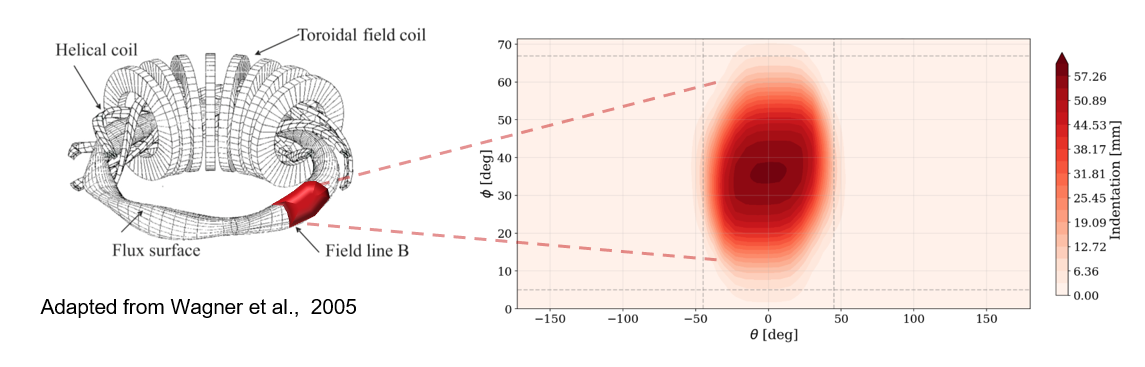
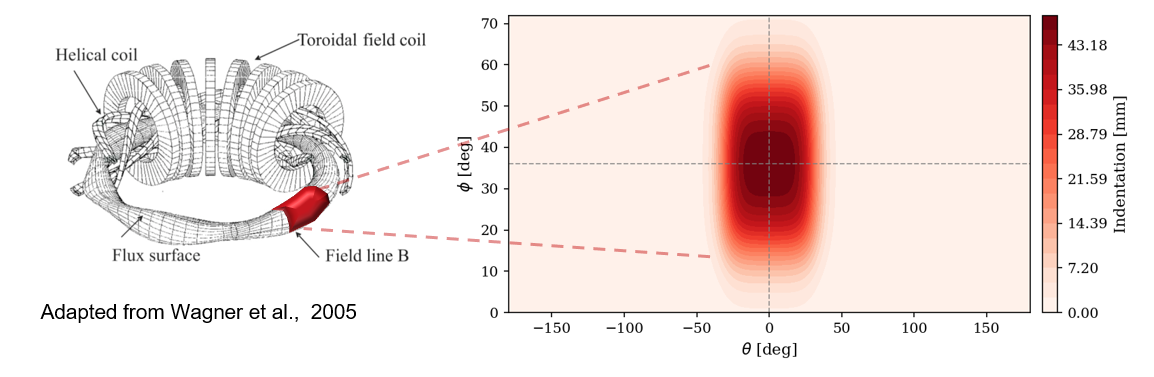
Updated documentation and fixed plot

diff --git a/docs/howto/stellarator_with_divertor.md b/docs/howto/stellarator_with_divertor.md
@@ -7,7 +7,7 @@ layout: default
 render_with_liquid: false
 ---
 
-# Running Stellarator with Divertor Region
+# Running the stellarator model with a divertor region
 
 Unlike tokamak models, JOREK does not have a built-in equilibrium solver for stellarator but uses an ideal MHD equilibrium solver from GVEC, assuming nested flux surfaces. Historically, this meant that the simulation domain has been limited to the Last Closed Flux Surface (LCFS). To go beyond the LCFS, one typically either needs:
 
@@ -29,7 +29,7 @@ Minimal context for this page:
 
 For W7-X divertor workflows where coil-field topology at the boundary is required, this page assumes `USE_EXT_FIELD=1` and a `gvec2jorek.dat` that already contains `B_vac_*` blocks.
 
-To realistically capture divertor physics, **sheath boundary conditions** (SBC) are necessary to capture the dynamics close to the first wall when open magnetic field intersect the boundary. The well-established main physics formulae, already implemented in the JOREK tokamak model and in other divertor physics codes, state that for flux surfaces intersecting boundaries with angle $\alpha$, we have:
+To realistically capture divertor physics, **sheath boundary conditions** (SBC) are necessary to capture the dynamics close to the first wall when open magnetic field intersect the boundary. The well-established main physics formulae, already implemented in the JOREK tokamak model and in other divertor physics codes, state that for flux surfaces intersecting boundaries with angle $\alpha$, we have (where $\alpha_0$ can bet set to e.g. 5 deg):
 
 1. **The Bohm criterion**: $$v_{\parallel} \geq \pm c_s f(\alpha), \quad \alpha = \arcsin\left(\frac{|\hat{n} \cdot \mathbf{B}|}{\Vert\mathbf{B}\Vert}\right), \quad f(\alpha)=\tanh\left(\frac{\alpha}{\alpha_0}\right)$$
 
@@ -48,7 +48,7 @@ More physics details on SBC and their implementation can be found in P.C Stangeb
 
 The first minimum viable stellarator divertor grid example features an artificial divertor indentation in the stellarator Wendelstein 7-A (sketch for illustrative purposes only):
 
-<img src="assets/stellarator_with_divertor/W7-A_divertor_illustrated.png" alt="Alt text" width="700">
+<img src="assets/stellarator_with_divertor/W7-A_divertor_illustrated.png" alt="Alt text" width="800">
 
 The indentation used is a smooth inward radial displacement of the boundary shell, with depth parameter $d$ (here $d=50$ mm, the more extreme test case). For this artificial W7-A test divertor, the indentation patch can be described analytically:
 
@@ -66,15 +66,17 @@ def tanh_smooth(x, center, width, smooth_width):
     return left * right
 ```
 
-and $\kappa$ is the ellipticity factor (in this example, $\kappa=1.5$). In practice, boundary nodes are moved inward by $\Delta r$ and interior shells are scaled proportionally from axis (0) to boundary (1). An example usage to plot this artificial indentation is found in `assets/stellarator_with_divertor/plot_w7a_example_indentation_map.py`
+and $\kappa$ is the ellipticity factor (in this example, $\kappa=1.5$). In practice, boundary nodes are moved inward by $\Delta r$ and interior shells are scaled proportionally from axis (0) to boundary (1). An example usage to plot this artificial indentation is found in [W7-A example indentation map](assets/stellarator_with_divertor/plot_w7a_example_indentation_map.py).
 
 Bezier-Hermite handling in this W7-A step is intentionally simple: geometry is modified in real space and first/mixed derivatives (`_s`, `_t`, `_st`) are recomputed with `scipy.interpolate.PchipInterpolator` in radial and poloidal directions (including periodic closure in poloidal angle). This avoids stale handles after boundary displacement.
 
-The main ingredients can be found in `assets/stellarator_with_divertor/modify_w7a_gvec2jorek_to_divertor.py`. Inputs are the original `gvec2jorek.dat` geometry/Fourier fields and a geometric indentation prescription. Output is a modified `gvec2jorek_divertor_<depth>mm.dat`, then model180/model183 follow the standard chain from [Run Stellarator Simulations](stellarator_setup.md).
+*TO DO: when stellarator_setup.md done, link to this script.*
+
+The main ingredients can be found in the [modify_w7a_gvec2jorek_to_divertor script](assets/stellarator_with_divertor/modify_w7a_gvec2jorek_to_divertor.py). Inputs are the original `gvec2jorek.dat` geometry/Fourier fields and a geometric indentation prescription. Output is a modified `gvec2jorek_divertor_<depth>mm.dat`, then model180/model183 follow the standard chain from the [stellarator set-up](stellarator_setup.md).
 
 This step is a first direct geometry-indentation workflow for W7-A, to demonstrate grid modification principles before any bloating or harmonic mapping is needed.
 
-<img src="assets//stellarator_with_divertor/boundary_toroidal_5panel_divertor_50.0mm.png" alt="Alt text" width="700">
+<img src="assets//stellarator_with_divertor/boundary_toroidal_5panel_divertor_50.0mm.png" alt="Alt text" width="800">
 
 ## W7-X divertor grids
 
@@ -82,33 +84,30 @@ This step is a first direct geometry-indentation workflow for W7-A, to demonstra
 
 #### Incorporating the vacuum field in the gvec2jorek.dat file 
 
-In step20, vacuum field is added by sampling the W7-X mgrid coil field on the JOREK flux grid, transforming to toroidal Fourier modes, and appending `B_vac_*` blocks to `gvec2jorek.dat`. The reference script is `runs/019_w7x_half_beta_island_divertor/step20_w7x_bean_scaling/mgrid2bvac_step20.py`.
+*This step requires a) a functional gvec2jorek.dat equilibrium file and b) an mgrid file (containing the vacuum fields) from W7-X. If you do not have these files, reach out to the W7-X team.*
 
-Minimal example from that script:
+*TO DO: link to 1) mgrid_w7x.nc (high_res), 2) gvec2jorek.dat file and 3) W7-X divertor files in Kisslinger format if/when they become publicly available.*
 
-```python
-GVEC2JOREK_IN = Path('.../gvec2jorek_harmonic_12.dat')
-MGRID_FILE = Path('.../mgrid_w7x_nv36_hires.nc')
-EXTCUR = [13470.0, 13470.0, 13470.0, 13470.0, 13470.0, 0.0, 0.0]
+The vacuum field is added by sampling the W7-X mgrid coil field on the JOREK flux grid, transforming to toroidal Fourier modes, and appending `B_vac_*` blocks to `gvec2jorek.dat`. The reference script is [w7x_mgrid2bvac](assets/stellarator_with_divertor/w7x_mgrid2bvac.py). The script basically does the following:
 
-# 1) evaluate geometry R(s,theta,phi), Z(s,theta,phi)
-# 2) interpolate mgrid B(R,Z,phi)
-# 3) Fourier transform in phi
-# 4) write B_vac_R/Z/phi (+ _s, _t, _st)
-```
+1. Read existing `gvec2jorek.dat` into grid geometry `R(s,theta,phi), Z(s,theta,phi)`
+2. Read `mgrid_w7x.nc` into `B_vac(R,Z,phi)` per coil group on cylindrical grid, sum coil contributions with `EXTCUR` weights
+3. interpolate mgrid `B(R,Z,phi)`
+4. Fourier transform in phi
+5. Write `B_vac_R/Z/phi` (+ `_s`, `_t`, `_st`) to gvec2jorek.dat
 
-Practical requirement: the mgrid file and `EXTCUR` values must correspond to the same magnetic configuration used to generate the target equilibrium (otherwise imported vacuum topology is inconsistent).
-
-Compilation/runtime requirement for this path: `USE_EXT_FIELD=1` and a `gvec2jorek.dat` that contains the `B_vac_*` blocks.
+Remember that the mgrid file and `EXTCUR` values must correspond to the same magnetic configuration used to generate the target equilibrium (otherwise imported vacuum topology is inconsistent). Also, `USE_EXT_FIELD=1` is necessary in the jorek model 180 / 183 compilation to include the vacuum field.
 
 #### Harmonic mapping
 
-Harmonic mapping constructs smooth, nested extension shells in strongly non-axisymmetric geometry by solving the mapping problem per toroidal plane and then rebuilding a toroidally consistent Fourier representation. This reduces geometric distortion and helps preserve positive Jacobians during extension/moulding. See also Robert Babin et al., Plasma Phys. Control. Fusion 67 (2025) 035005.
+Harmonic mapping - defined by two coordinate functions that are harmonic, constructed as the solution of two Laplace’s equations with Dirichlet boundary conditions - constructs smooth, nested extension shells in strongly non-axisymmetric geometry by solving the mapping problem per toroidal plane and then rebuilding a toroidally consistent Fourier representation. This method reduces geometric distortion and helps preserve positive Jacobians during extension, see details Robert Babin et al., Plasma Phys. Control. Fusion 67 (2025) 035005.
 
-In `extend_grid_harmonic.py`, Step 1 is the harmonic mapping stage: for each toroidal plane, LCFS is mapped to an additive conformal envelope (`CONFORMAL_EXT_M = 0.150` m), then transformed back to Fourier modes over all planes.
+In [`w7x_extend_grid_harmonic.py`](assets/stellarator_with_divertor/w7x_extend_grid_harmonic.py), Step 1 is the harmonic mapping stage: for each toroidal plane, LCFS is mapped to an additive conformal envelope, then transformed back to Fourier modes over all planes.
 
 #### Divertor moulding
 
 In the same script, Step 2 is divertor moulding: a displacement/scale field is built from ray intersections with divertor target segments, then extension shells are rescaled toward those targets with smooth angular tapers (`DIVERTOR_SMOOTH_DEG`, `PHI_TAPER_DEG`) and safety bounds (`SCALE_MIN`, `SCALE_MAX`) to keep the mesh regular.
 
-<img src="assets//stellarator_with_divertor/w7x_divertor_grid_5panel.png" alt="Alt text" width="700">
+An example output plot of the constructed grid that extends all the way to the divertor surfaces can be seen below (also with the original LCFS marked, inside which the grid is virtually untouched):
+
+<img src="assets//stellarator_with_divertor/w7x_divertor_grid_5panel.png" alt="Alt text" width="800">
